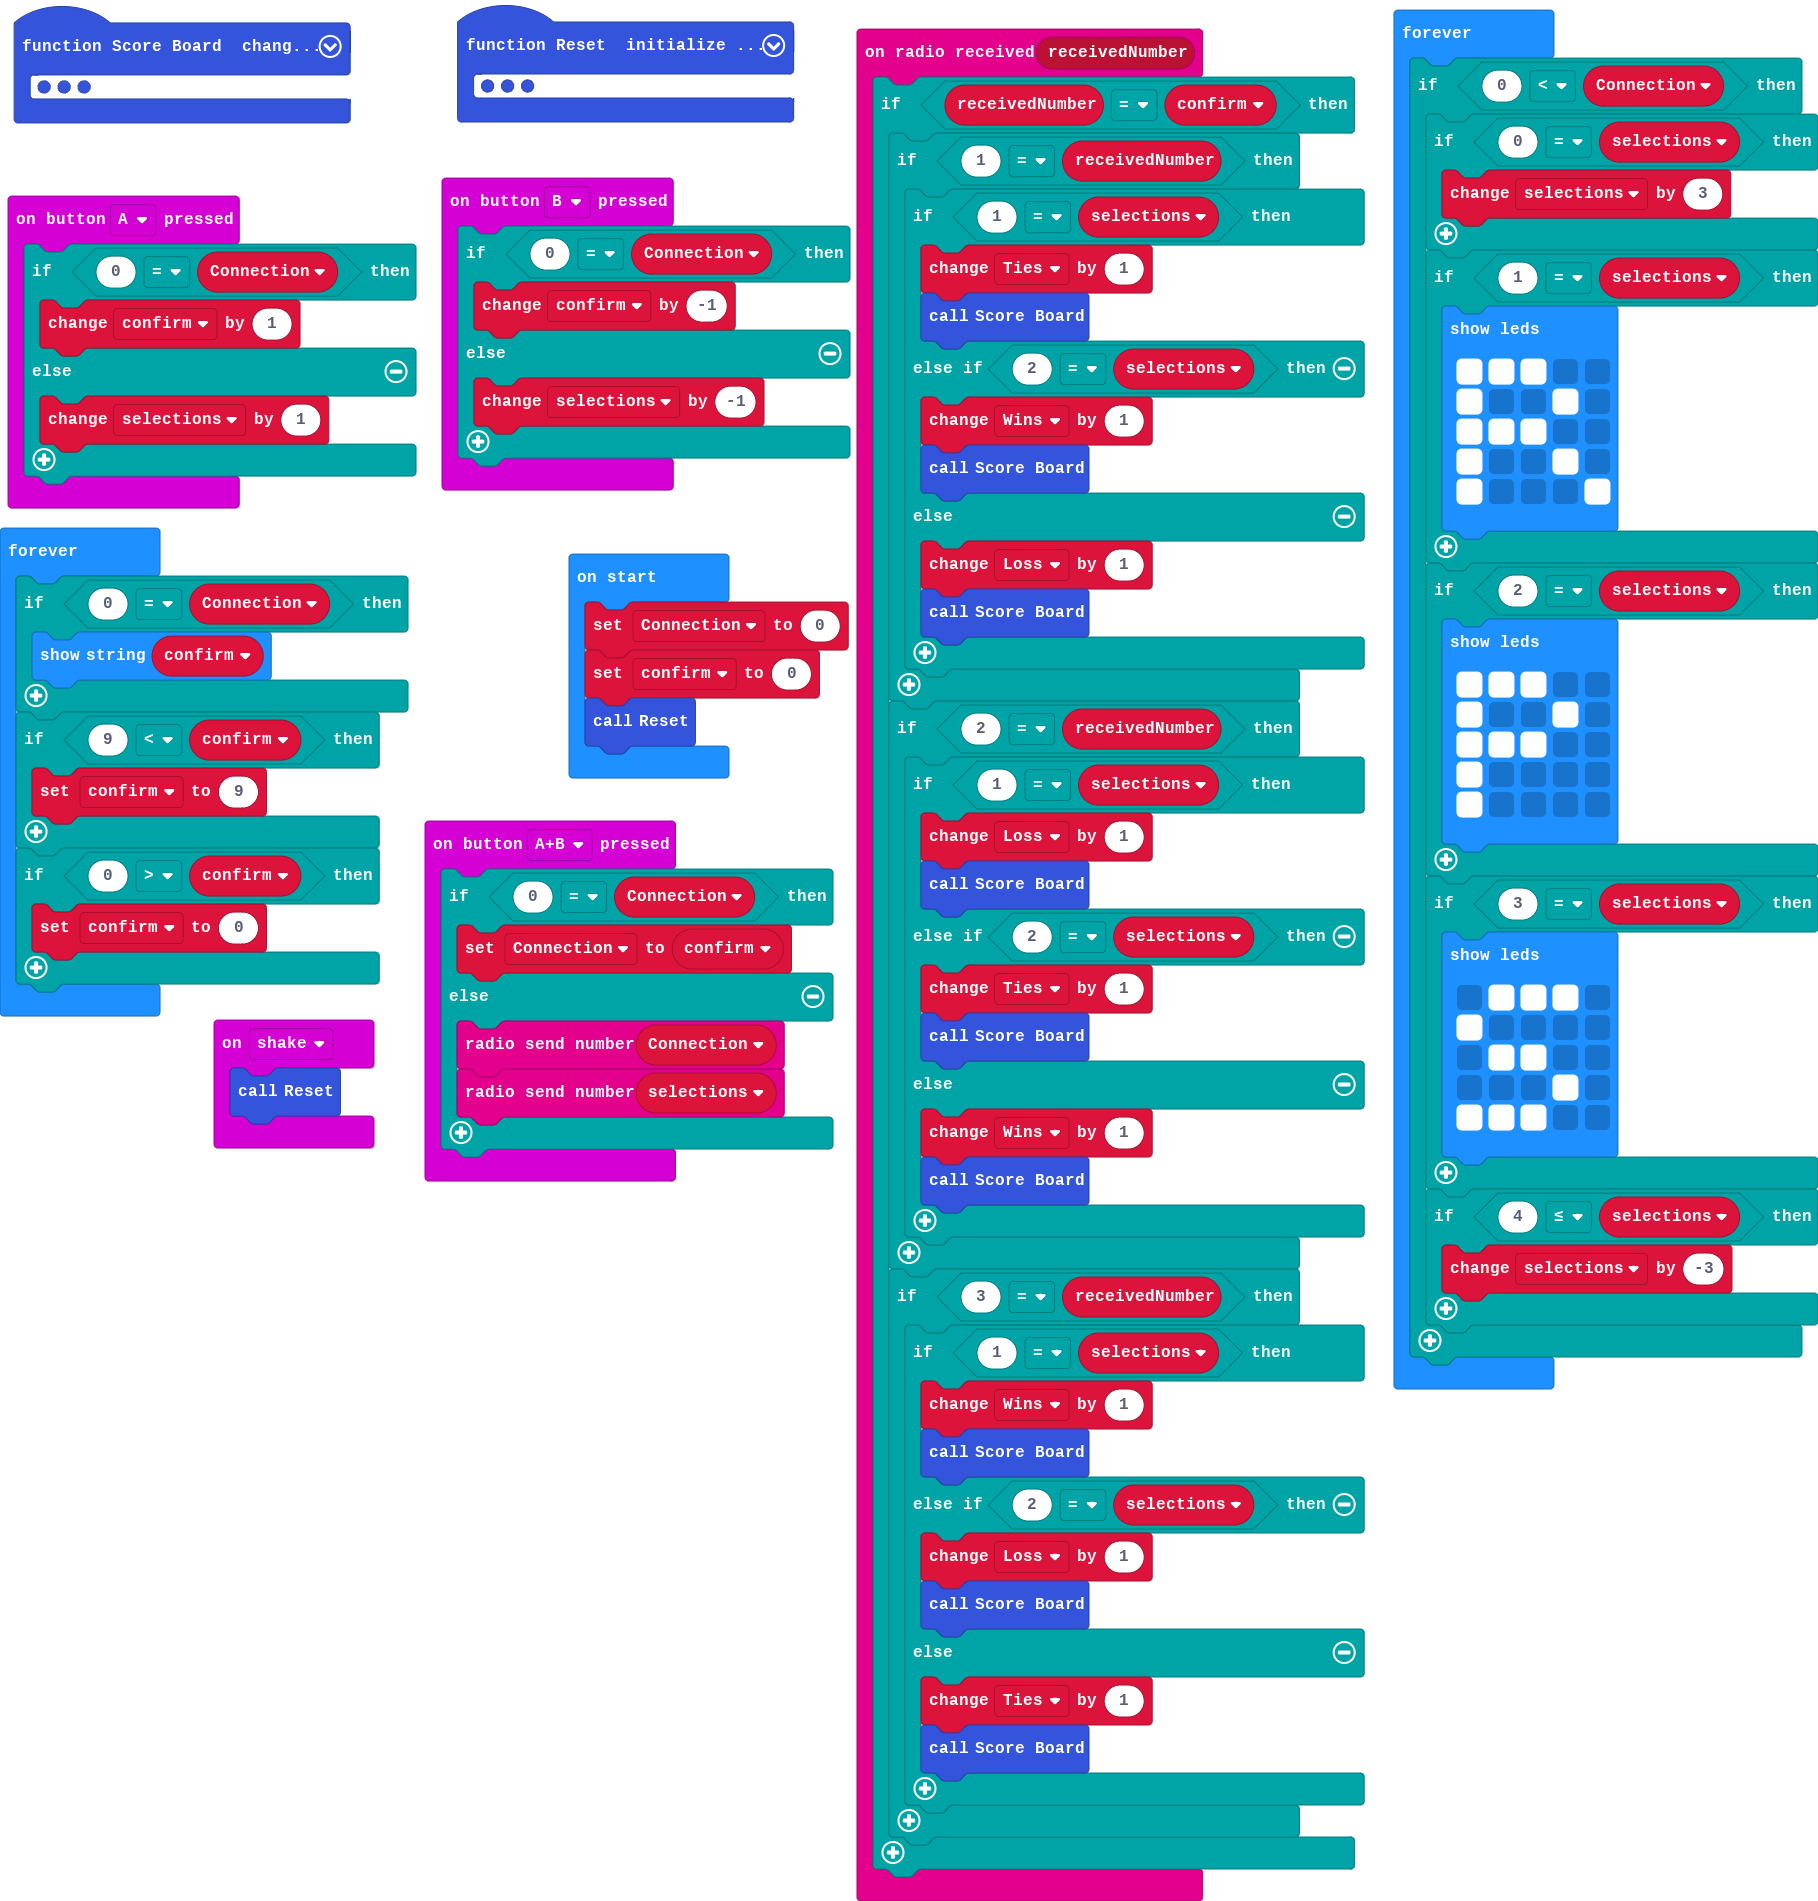
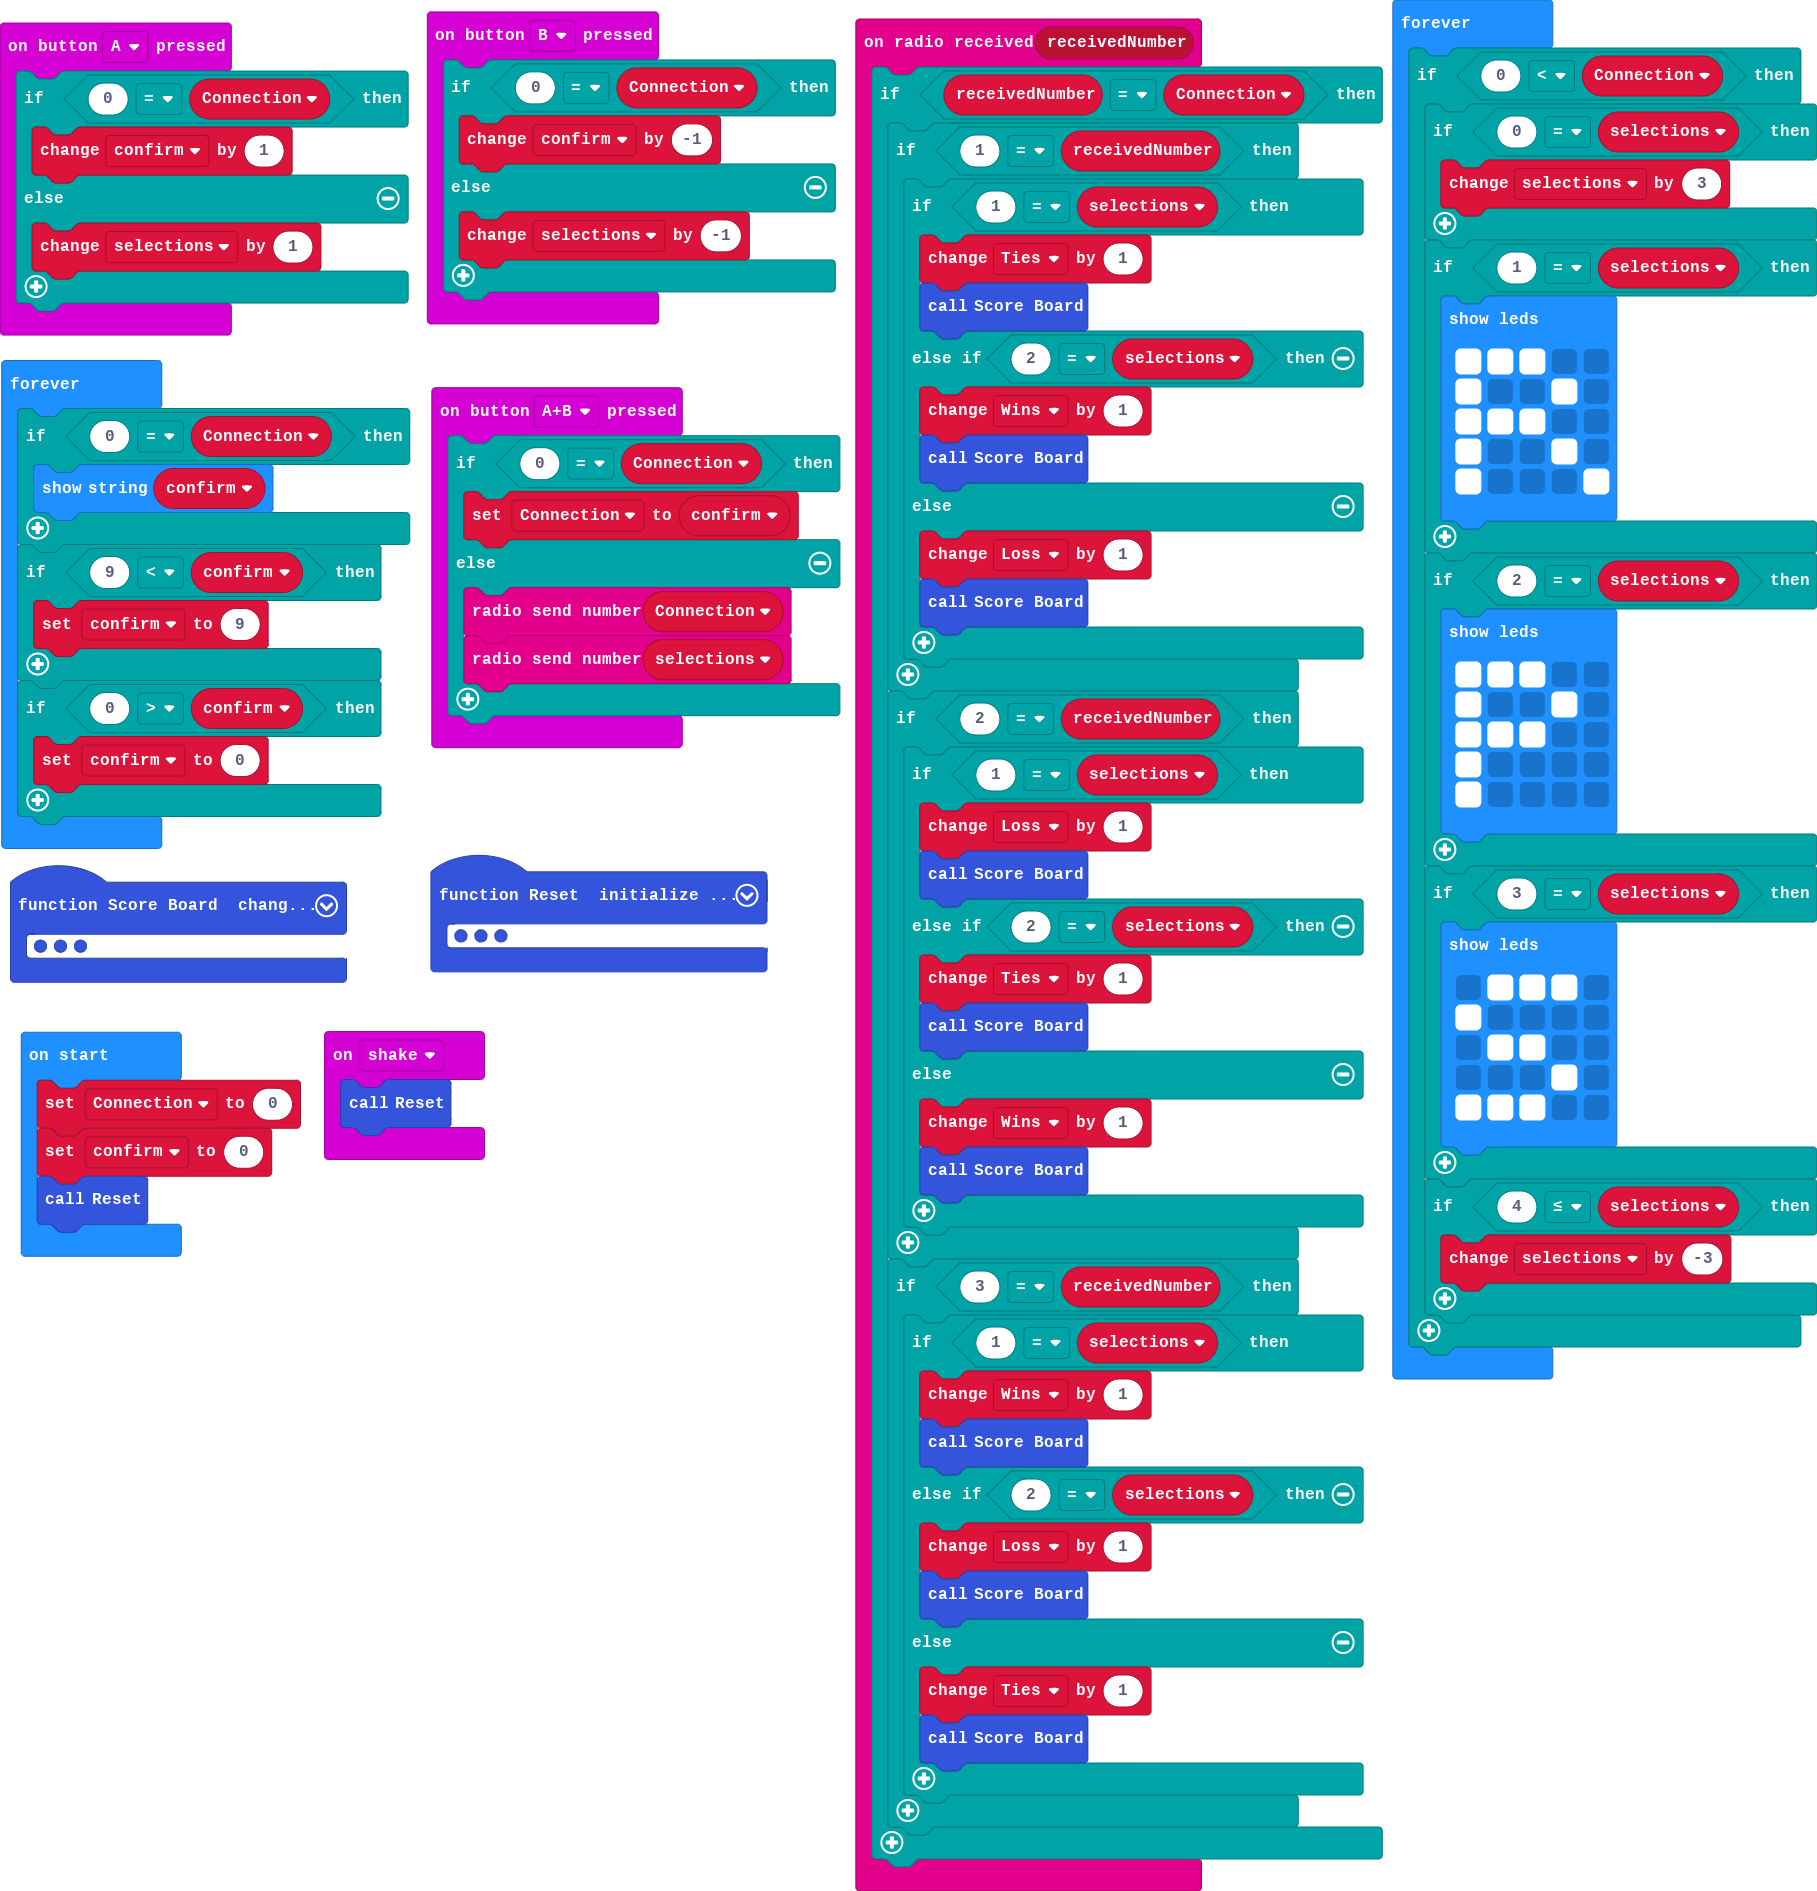
Update main.blocks, main.ts

diff --git a/main.ts b/main.ts
@@ -1,5 +1,5 @@
 radio.onReceivedNumber(function (receivedNumber) {
-    if (receivedNumber == confirm) {
+    if (receivedNumber == Connection) {
         if (1 == receivedNumber) {
             if (1 == selections) {
                 Ties += 1
